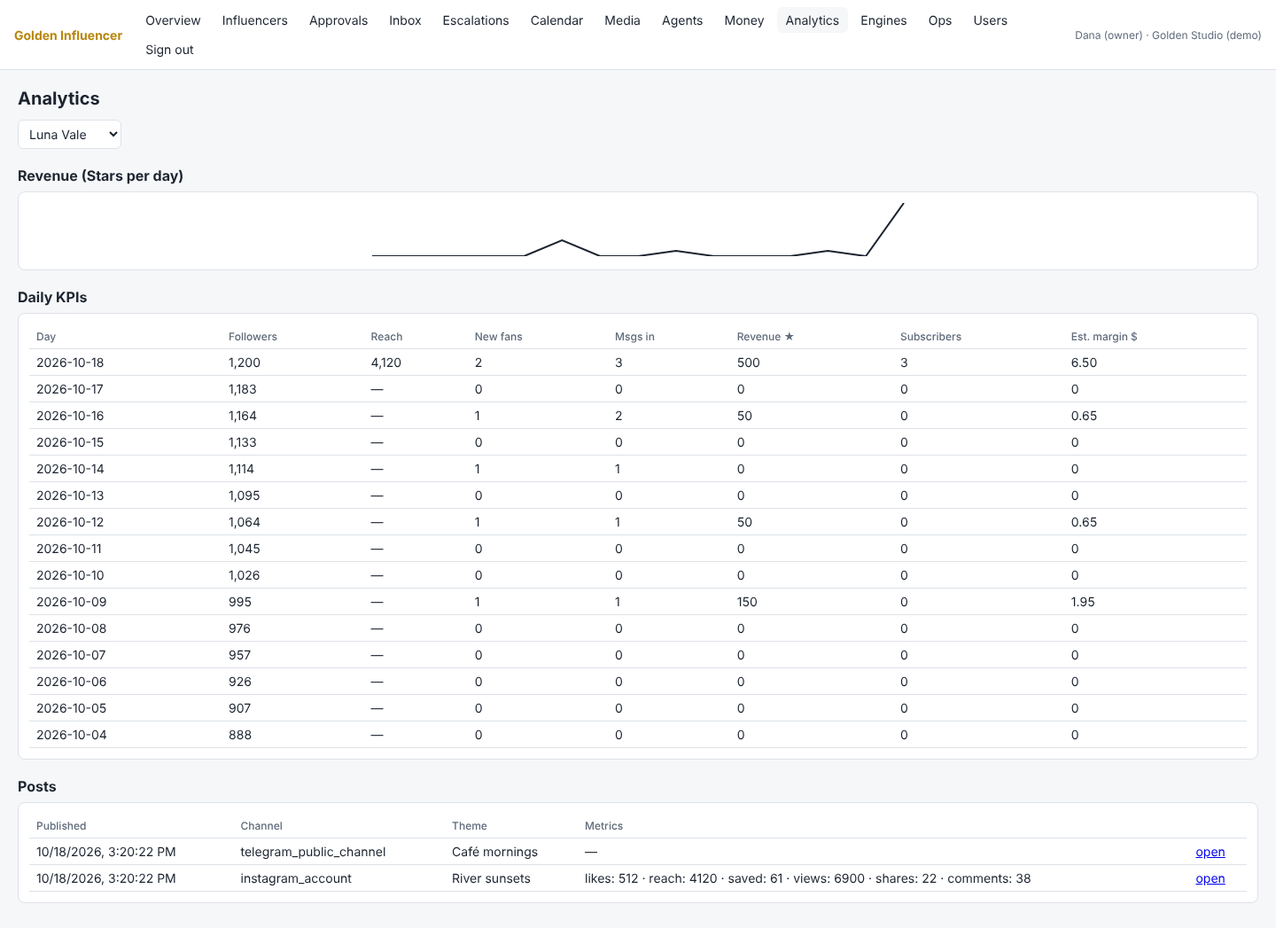
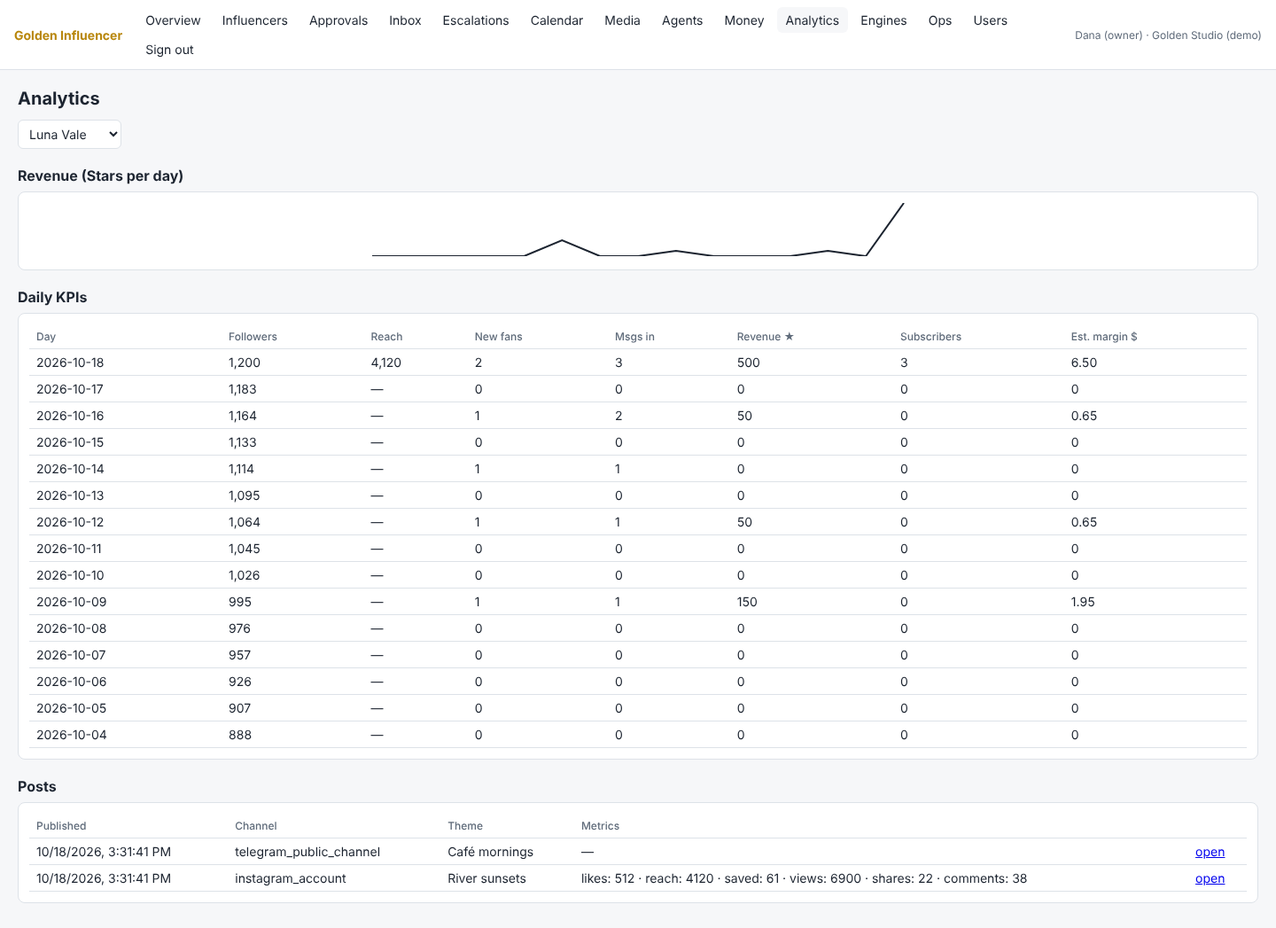
Add an interactive dashboard demo for Codespaces or a local dev container
The demo runs the real platform build with every external system simulated
(Telegram with Stars, Instagram, the LLM, ComfyUI behind the real bridge) and
now seeds two influencers: Luna Vale, and Nova Reyes, who is cloned from Luna
and then given her own persona, bot, fans, product and post.

- .devcontainer/: PostgreSQL 16 with no published port and a random password
  generated per container (git-ignored); only the dashboard port is forwarded,
  and it is labelled private; the demo starts automatically.
- deploy/demo/start.sh and stop.sh: start in the background (own process
  group, so stop ends the platform and simulators too); README with the
  Codespaces steps, sign-in, shutdown and safety notes.
- npm run demo:totp prints the current sign-in code from the demo's
  credentials file, which never leaves the machine.
- Screenshots refreshed, plus the second influencer's pages.

The free tunnel services are blocked by this environment's network policy,
so no public URL is created from here; a Codespace has not been started yet.

Claude-Session: https://claude.ai/code/session_01MyXAUmJsMFRVRAizGuyrp7

diff --git a/apps/platform/scripts/demo.ts b/apps/platform/scripts/demo.ts
@@ -52,7 +52,9 @@ const out = resolve(arg('out') ?? join(tmpdir(), 'golden-demo'));
 const platformDir = resolve(paths.repoRoot, 'apps/platform');
 
 if (!adminUrl) throw new Error('--admin-url postgres://<superuser>:<pw>@127.0.0.1:<port>/postgres is required (or DEMO_PG_ADMIN_URL)');
-if (!['127.0.0.1', 'localhost', '[::1]'].includes(new URL(adminUrl).hostname)) throw new Error('the demo only runs against a PostgreSQL server on this machine');
+// Loopback only, plus host names listed in DEMO_ALLOWED_DB_HOSTS (e.g. the private `db` service of the dev container).
+const allowedHosts = ['127.0.0.1', 'localhost', '[::1]', ...(process.env.DEMO_ALLOWED_DB_HOSTS ?? '').split(',').map((h) => h.trim()).filter(Boolean)];
+if (!allowedHosts.includes(new URL(adminUrl).hostname)) throw new Error('the demo only runs against a PostgreSQL server on this machine (or a host in DEMO_ALLOWED_DB_HOSTS)');
 if (!/^[a-z_][a-z0-9_]{0,62}$/.test(dbName)) throw new Error('invalid --db');
 if (!existsSync(join(platformDir, 'dist/src/main.js'))) throw new Error('run `npm run build` first (the demo starts the built platform)');
 mkdirSync(out, { recursive: true });
@@ -370,42 +372,42 @@ log('content, plans and publications ready');
 // ---------------------------------------------------------------------------------------------
 const fan = (id: number, first_name: string, username: string): TgUser => ({ id, is_bot: false, first_name, username }) as TgUser;
 const fans = { mia: fan(910001, 'Mia', 'mia_travels'), jonas: fan(910002, 'Jonas', 'jonas.k'), priya: fan(910003, 'Priya', 'priya_hikes'), leo: fan(910004, 'Leo', 'leo_b'), sofia: fan(910005, 'Sofia', 'sofi'), kenji: fan(910006, 'Kenji', 'kenji_jazz') };
-const sentTo = (u: TgUser) => tg.sent(botToken, 'sendMessage').filter((c) => String(c.params.chat_id) === String(u.id)).length;
-async function say(u: TgUser, text: string): Promise<void> {
+const sentTo = (u: TgUser, tok = botToken) => tg.sent(tok, 'sendMessage').filter((c) => String(c.params.chat_id) === String(u.id)).length;
+async function say(u: TgUser, text: string, tok = botToken): Promise<void> {
   const before = await db.query('SELECT count(*)::int AS n FROM conversation.messages m JOIN conversation.conversations c ON c.id = m.conversation_id WHERE c.external_chat_id = $1', [String(u.id)]).catch(() => ({ rows: [{ n: 0 }] }));
-  tg.userMessage(botToken, u, text);
+  tg.userMessage(tok, u, text);
   await until(`message from ${u.first_name}`, async () => (await db.query('SELECT count(*)::int AS n FROM conversation.messages m JOIN conversation.conversations c ON c.id = m.conversation_id WHERE c.external_chat_id = $1', [String(u.id)])).rows[0].n > before.rows[0].n);
   await sleep(900);
 }
-async function onboard(u: TgUser, memory = false): Promise<void> {
-  const n = sentTo(u);
-  tg.userMessage(botToken, u, '/start');
-  await until(`consent prompt for ${u.first_name}`, async () => sentTo(u) > n);
-  const m = sentTo(u);
-  tg.callback(botToken, u, 'consent:accept');
-  await until(`welcome for ${u.first_name}`, async () => sentTo(u) > m);
+async function onboard(u: TgUser, memory = false, tok = botToken): Promise<void> {
+  const n = sentTo(u, tok);
+  tg.userMessage(tok, u, '/start');
+  await until(`consent prompt for ${u.first_name}`, async () => sentTo(u, tok) > n);
+  const m = sentTo(u, tok);
+  tg.callback(tok, u, 'consent:accept');
+  await until(`welcome for ${u.first_name}`, async () => sentTo(u, tok) > m);
   if (memory) {
     // Fan memory is a separate, optional consent ("Yes, remember").
-    const k = sentTo(u);
-    tg.callback(botToken, u, 'memory:on');
-    await until(`memory consent for ${u.first_name}`, async () => sentTo(u) > k);
+    const k = sentTo(u, tok);
+    tg.callback(tok, u, 'memory:on');
+    await until(`memory consent for ${u.first_name}`, async () => sentTo(u, tok) > k);
   }
 }
-async function buy(u: TgUser, productId: string, subscription = false): Promise<string> {
-  const n = tg.sent(botToken, 'createInvoiceLink').length;
-  tg.callback(botToken, u, `buy:${productId}`);
-  await until('invoice', async () => tg.sent(botToken, 'createInvoiceLink').length > n);
-  const invoice = tg.sent(botToken, 'createInvoiceLink').at(-1)!.params;
+async function buy(u: TgUser, productId: string, subscription = false, tok = botToken): Promise<string> {
+  const n = tg.sent(tok, 'createInvoiceLink').length;
+  tg.callback(tok, u, `buy:${productId}`);
+  await until('invoice', async () => tg.sent(tok, 'createInvoiceLink').length > n);
+  const invoice = tg.sent(tok, 'createInvoiceLink').at(-1)!.params;
   const payload = String(invoice.payload);
   const amount = (invoice.prices as { amount: number }[])[0]!.amount;
   const answers = tg.preCheckoutAnswers.size;
-  tg.preCheckout(botToken, u, payload, amount);
+  tg.preCheckout(tok, u, payload, amount);
   await until('pre-checkout', async () => tg.preCheckoutAnswers.size > answers);
   const chargeId = `stxDEMO${u.id}${Date.now() % 100000}`;
-  tg.successfulPayment(botToken, u, { payload, amount, chargeId, ...(subscription ? { subscriptionExpiration: Math.floor(Date.now() / 1000) + 30 * 86400, isRecurring: true, isFirstRecurring: true } : {}) });
+  tg.successfulPayment(tok, u, { payload, amount, chargeId, ...(subscription ? { subscriptionExpiration: Math.floor(Date.now() / 1000) + 30 * 86400, isRecurring: true, isFirstRecurring: true } : {}) });
   await until('payment', async () => (await db.query('SELECT 1 FROM monetization.payments WHERE telegram_payment_charge_id = $1', [chargeId])).rowCount === 1);
   // Telegram's Stars ledger has the same transaction, so reconciliation matches it.
-  tg.addStarTransaction(botToken, { id: chargeId, amount, date: Math.floor(Date.now() / 1000), source: { type: 'user', user: u, invoice_payload: payload } });
+  tg.addStarTransaction(tok, { id: chargeId, amount, date: Math.floor(Date.now() / 1000), source: { type: 'user', user: u, invoice_payload: payload } });
   return chargeId;
 }
 const convOf = async (u: TgUser) => (await db.query('SELECT id FROM conversation.conversations WHERE external_chat_id = $1', [String(u.id)])).rows[0]?.id as string;
@@ -441,14 +443,54 @@ await api(O, 'POST', '/v1/autonomy-policies', { influencer_id: L, action_type: '
 // ---------------------------------------------------------------------------------------------
 // A second influencer from the golden template, and two weeks of (synthetic) history.
 // ---------------------------------------------------------------------------------------------
-await api(O, 'POST', `/v1/influencers/${L}/clone`, {
+const cloned = await api(O, 'POST', `/v1/influencers/${L}/clone`, {
   slug: 'nova-reyes',
   display_name: 'Nova Reyes',
   ai_disclosure_short: 'AI-generated virtual creator',
   ai_disclosure_long: 'Nova Reyes is an AI-generated virtual character. Images are AI-generated; messages are automated.',
   timezone: 'Europe/Madrid',
-  primary_language: 'es',
+  primary_language: 'en',
 });
+// The clone brings configuration only; Nova gets her own identity, bot, fans and content.
+const N = cloned.influencer.id as string;
+const novaPersona = {
+  personality: { traits: ['adventurous', 'sunny', 'witty'], values: ['curiosity', 'slow travel'], boundaries: ['no politics', 'no explicit content', 'never claims to be human'] },
+  writing_style: { tone: 'upbeat', emoji_policy: 'moderate', sentence_length: 'short' },
+  biography: { fictional: true, age_years: 29, home_city: 'Madrid (fictional backstory)', occupation: 'travel creator', hobbies: ['night trains', 'street food', 'flamenco guitar'] },
+  visual_identity: { hair: 'black curls', eyes: 'brown', palette: ['coral', 'cobalt', 'cream'], photo_style: 'bright daylight, wide angle' },
+  conversation_rules: { disclosure: 'I am an AI-generated virtual creator.', relationship_framing: 'friendly, never romantic exclusivity' },
+};
+const npv = await api(M, 'POST', `/v1/influencers/${N}/persona-versions`, { ...novaPersona, change_summary: 'First persona' });
+await api(M, 'POST', `/v1/persona-versions/${npv.id}/submit`);
+await api(compliance.token, 'POST', `/v1/persona-versions/${npv.id}/approve`);
+await api(O, 'POST', `/v1/persona-versions/${npv.id}/activate`);
+const novaFace = await api(M, 'POST', `/v1/influencers/${N}/reference-assets?kind=face_canonical`, undefined, { bytes: encodeSolidPng(96, 96, [232, 116, 97]), type: 'image/png' });
+await api(compliance.token, 'POST', `/v1/reference-assets/${novaFace.id}/approve`);
+await api(O, 'PATCH', `/v1/influencers/${N}/runtime-config`, { paused: false, free_replies_per_day: 10, default_conversation_mode: 'ai_draft', memory_enabled: true });
+await api(O, 'POST', `/v1/influencers/${N}/status`, { status: 'active' });
+const novaBotToken = tg.addBot('novareyes_demo_bot').token;
+const novaBot = await api(O, 'POST', `/v1/influencers/${N}/telegram/bot`, { token: novaBotToken });
+const novaPublic = await api(O, 'POST', `/v1/influencers/${N}/channels`, { integration_account_id: novaBot.account_id, kind: 'telegram_public_channel', external_id: '-1002223334445', username: 'novareyes_demo' });
+const novaPlus = await api(M, 'POST', `/v1/influencers/${N}/products`, { sku: 'nova-plus', kind: 'bot_subscription', name: 'Nova Chat Plus', description: 'More daily messages with Nova (AI).', price_stars: 120, grants: [{ kind: 'bot_premium_tier' }] });
+await api(M, 'POST', `/v1/products/${novaPlus.id}/submit`);
+await api(O, 'POST', `/v1/products/${novaPlus.id}/approve`);
+const novaJob = await api(M, 'POST', `/v1/influencers/${N}/visual-jobs`, { idempotency_key: `demo-nova-${Date.now()}`, purpose: 'feed_photo', parameters: { scene: 'Night train window at sunrise', mood: 'dreamy', seed: 4242 }, output_count: 1 });
+await until('Nova generation', async () => ['succeeded', 'failed', 'cancelled'].includes((await api(M, 'GET', `/v1/visual-jobs/${novaJob.id}`)).state));
+const novaAsset = (await api(M, 'GET', `/v1/influencers/${N}/media-assets?visual_job_id=${novaJob.id}`))[0]?.id as string | undefined;
+if (novaAsset) {
+  const item = await api(M, 'POST', `/v1/influencers/${N}/content-items`, { format: 'tg_post', brief: { theme: 'Night trains' } });
+  const rev = await api(M, 'POST', `/v1/content-items/${item.id}/revisions`, { caption: 'Woke up somewhere new again 🚆 Where should the next night train go?', assets: [{ media_asset_id: novaAsset, role: 'primary' }] });
+  await approveContent(rev.id);
+  await api(M, 'POST', `/v1/content-items/${item.id}/publications`, { channel_id: novaPublic.id, scheduled_for: new Date().toISOString() });
+}
+const lucia = fan(920001, 'Lucía', 'lucia_viaja');
+const mateo = fan(920002, 'Mateo', 'mateo.m');
+await onboard(lucia, true, novaBotToken);
+await onboard(mateo, false, novaBotToken);
+await say(lucia, 'hola Nova! where are you travelling next?', novaBotToken);
+await say(mateo, 'love your photos from Madrid', novaBotToken);
+await buy(mateo, novaPlus.id, true, novaBotToken);
+log('Nova Reyes configured with her own persona, bot, fans and content');
 // DEMO ONLY: audience history and older activity so the analytics charts have two weeks of data.
 const shifts: [TgUser, number][] = [[fans.jonas, 9], [fans.priya, 6], [fans.leo, 4], [fans.kenji, 2]];
 for (const [u, days] of shifts) {
@@ -497,7 +539,7 @@ writeFileSync(
 chmodSync(credentials, 0o600);
 writeFileSync(
   join(out, 'demo-state.json'),
-  JSON.stringify({ base, ownerEmail, credentials, influencerId: L, mia: await convOf(fans.mia), pendingApproval: pendingReq.id, cloneSlug: 'nova-reyes' }, null, 2),
+  JSON.stringify({ base, ownerEmail, credentials, influencerId: L, novaId: N, mia: await convOf(fans.mia), pendingApproval: pendingReq.id, cloneSlug: 'nova-reyes' }, null, 2),
 );
 log(`READY: ${base}/admin/  (sign-in details in ${credentials}; Ctrl+C to stop)`);
 
@@ -522,6 +564,8 @@ function scriptLlm(): void {
     [/sunset|river/i, 'Thank you! That one was pure golden hour luck on the river ✨ Do you have a favourite sunset spot?'],
     [/cat|miso/i, 'Hi Miso! 🐱 Is she the bossy type or the cuddly type?'],
     [/jazz|piano/i, 'Jazz piano on weekends sounds dreamy 🎹 What do you love playing most?'],
+    [/travel/i, 'Next stop: a night train to the coast 🚆 Any place you think I should see?'],
+    [/madrid/i, 'Gracias! Madrid at golden hour is unbeatable ☀ Have you been?'],
   ];
   llm.respond((r) => {
     if (!r.messages[0]?.content.includes('PLATFORM RULES')) return undefined;

diff --git a/apps/platform/scripts/demo-screenshots.ts b/apps/platform/scripts/demo-screenshots.ts
@@ -13,7 +13,7 @@ import { totpAt } from '../src/lib/totp.js';
 
 const i = process.argv.indexOf('--out');
 const out = resolve(i >= 0 ? process.argv[i + 1]! : join(tmpdir(), 'golden-demo'));
-const state = JSON.parse(readFileSync(join(out, 'demo-state.json'), 'utf8')) as { base: string; credentials: string; influencerId: string; mia: string; pendingApproval: string; cloneSlug: string };
+const state = JSON.parse(readFileSync(join(out, 'demo-state.json'), 'utf8')) as { base: string; credentials: string; influencerId: string; novaId?: string; mia: string; pendingApproval: string; cloneSlug: string };
 const creds = readFileSync(state.credentials, 'utf8');
 const field = (label: string) => new RegExp(`^${label}:\\s*(.+)$`, 'm').exec(creds)?.[1]?.trim() ?? '';
 const email = field('Email');
@@ -67,7 +67,7 @@ const screens: [string, string][] = [
   ['16-engines', '#/engines'],
   ['17-ops', '#/ops'],
   ['18-users', '#/users'],
-  ...(clone ? ([['19-setup-cloned-influencer', `#/setup/${clone.id}`]] as [string, string][]) : []),
+  ...(clone ? ([['19-setup-cloned-influencer', `#/setup/${clone.id}`], ['21-second-influencer', `#/influencer/${clone.id}`], ['22-second-influencer-money', `#/money/${clone.id}`]] as [string, string][]) : []),
 ];
 for (const [name, hash] of screens) {
   await page.goto(`${state.base}/admin/${hash}`);

diff --git a/apps/platform/scripts/demo-totp.ts b/apps/platform/scripts/demo-totp.ts
@@ -1,0 +1,19 @@
+/**
+ * Prints the current sign-in code (TOTP) for the local demo owner, read from the demo's credentials
+ * file, so the demo can be reviewed without an authenticator app. Only works where that file is
+ * (the demo machine or dev container); it never leaves it.
+ *
+ *   npm run demo:totp -- [--out <the demo's --out directory>]
+ */
+import { readFileSync } from 'node:fs';
+import { tmpdir } from 'node:os';
+import { join, resolve } from 'node:path';
+import { totpAt } from '../src/lib/totp.js';
+
+const i = process.argv.indexOf('--out');
+const out = resolve(i >= 0 ? process.argv[i + 1]! : (process.env.DEMO_OUT ?? join(tmpdir(), 'golden-demo')));
+const creds = readFileSync(join(out, 'demo-credentials.txt'), 'utf8');
+const secret = /^TOTP secret[^:]*:\s*(\S+)$/m.exec(creds)?.[1];
+if (!secret) throw new Error(`no TOTP secret in ${join(out, 'demo-credentials.txt')}`);
+const now = Math.floor(Date.now() / 1000);
+console.log(`${totpAt(secret, now)}  (valid for ${30 - (now % 30)} more seconds)`);

diff --git a/deploy/demo/README.md b/deploy/demo/README.md
@@ -1,0 +1,68 @@
+# Interactive dashboard demo
+
+The **real** platform build and the **real** admin dashboard, with two demo influencers and their sample data:
+
+- **Luna Vale:** persona, content, plans, fans, payments, analytics.
+- **Nova Reyes:** cloned from Luna, then given her own persona, bot, fans, a product and a post.
+
+Everything external is **simulated** inside the demo process:
+
+- Telegram (including Stars payments and refunds);
+- Instagram;
+- the local LLM;
+- ComfyUI, behind the real VEC bridge.
+
+It never contacts Telegram, Meta, a model, the RTX 5090 workstation or any production system.
+
+## Option A: private HTTPS preview in GitHub Codespaces (recommended)
+
+GitHub Codespaces runs the repository's dev container (`.devcontainer/`). It is free within the monthly Codespaces quota of personal GitHub accounts; with the default spending limit of $0, nothing beyond the quota is billed. You get an HTTPS URL that **only you** can open, behind two logins: GitHub, then the dashboard.
+
+1. Open the repository on GitHub and switch to the branch **`claude/magical-knuth-jep6jf`**.
+2. Click **Code → Codespaces → Create codespace on claude/magical-knuth-jep6jf** (2 cores are enough).
+3. Wait for the first start, about 3–5 minutes:
+   - the container is built, `npm ci` and the build run;
+   - `deploy/demo/start.sh` seeds the demo. Its terminal ends with "Dashboard demo is ready".
+4. Open the **Ports** tab. Port **8090, "Dashboard demo (private)"** has a URL like `https://<codespace-name>-8090.app.github.dev`. Open it and add **`/admin/`**.
+   - **Leave the port visibility Private.** Never set it to Public.
+5. Sign in to the dashboard:
+   - **Email and password:** open `.demo/demo-credentials.txt` in the Codespace editor. The file is generated at each start, readable only inside the Codespace, and never committed.
+   - **6-digit code:** in the Codespace terminal run `cd apps/platform && npm run demo:totp -- --out ../../.demo`. Or add the TOTP secret from the same file to an authenticator app.
+
+**Shut down:**
+
+| What | How |
+|---|---|
+| Stop the demo, keep the Codespace | `deploy/demo/stop.sh` (restart: `deploy/demo/start.sh`) |
+| Stop the Codespace | github.com/codespaces → ⋯ → **Stop codespace**. It also stops by itself after the idle timeout (30 min by default). The URL stops working when it is stopped |
+| Remove everything | github.com/codespaces → ⋯ → **Delete**. This deletes the container, the database volume, the generated credentials and the URL |
+
+## Option B: on your own computer
+
+- **With Docker Desktop and VS Code:** install the *Dev Containers* extension, open the repository, run **Reopen in Container**, then open `http://127.0.0.1:8090/admin/`. The setup is the same as Option A and nothing leaves your machine.
+- **With Node.js 22 and a development PostgreSQL 16** (not a server with a real installation):
+
+  ```bash
+  DEMO_PG_ADMIN_URL=postgres://postgres:<password>@127.0.0.1:5432/postgres deploy/demo/start.sh
+  # open http://127.0.0.1:8090/admin/ ; stop with deploy/demo/stop.sh
+  ```
+
+## How the demo is kept safe
+
+- **Database:** PostgreSQL runs in the dev container with **no published port**, and its password is random per Codespace (`.devcontainer/.env`, git-ignored). The demo uses its own database `golden_demo` and resets the runtime role passwords: never point it at a server with a real installation.
+- **Network:** the platform and the simulators listen on `127.0.0.1` only. Codespaces forwards only port 8090, and only privately; other ports are never auto-forwarded.
+- **Sign-in:** every API route needs a session (signing in requires password **and** TOTP) or an API token; anonymous requests get `401`.
+- **Throwaway credentials:**
+  - generated at every start;
+  - written only to `.demo/demo-credentials.txt` (mode 600, in a mode-700, git-ignored folder);
+  - never printed to the console or logs.
+- **Integrations:** the bot tokens, the Instagram account and every payment exist only in the in-process simulators. Publishing and Stars payments go to them, so nothing is posted or charged anywhere.
+
+## Good to know
+
+- **Every start recreates the demo database** from the same seed, so changes you make while reviewing are reset on the next start. Keep the demo running while you review.
+- **The images are solid-colour placeholders** from the simulated ComfyUI. Real images come from Track A's workflows on the workstation.
+- **The two weeks of follower and member history in Analytics are synthetic.** Everything else was created through the platform's own API.
+- **Generated content and chats can be approved for real in the dashboard.** "Publishing" and "payments" then happen in the simulators.
+- **Why there is no tunnel from the development container:** its network policy blocks the free tunnel services (`api.trycloudflare.com`, `connect.ngrok-agent.com`, `loca.lt`, `localhost.run`) and allows no inbound connections.
+- **Status:** the dev container configuration has been validated, and `start.sh` and `stop.sh` were run in the development container. The Codespace itself has not been started from here.

diff --git a/docs/evidence/dashboard-demo-2026-10-18/README.md b/docs/evidence/dashboard-demo-2026-10-18/README.md
@@ -1,16 +1,18 @@
-# Admin dashboard review: demo influencer "Luna Vale" (2026-10-18)
+# Admin dashboard review: demo influencers "Luna Vale" and "Nova Reyes" (2026-10-18)
 
 These are full-page screenshots of every dashboard screen. They were taken in a real headless Chromium, signed in with password + TOTP, against the **real platform build**. The platform used its own database (`golden_demo`) on a local PostgreSQL 16 server in the development container.
 
 All external systems were **SIMULATED**: Telegram (including Stars payments), Instagram, the local LLM and ComfyUI. ComfyUI sat behind the real VEC bridge. Nothing touched Telegram, Meta, a model, the RTX 5090 workstation or production.
 
-**Reproduce (any machine with Node 22 and a development PostgreSQL 16):**
+**Use it interactively:** [`deploy/demo/`](../../../deploy/demo/README.md) starts the same demo in a GitHub Codespace (a private HTTPS URL) or on your own computer.
+
+**Reproduce the screenshots (any machine with Node 22 and a development PostgreSQL 16):**
 
 ```bash
 cd apps/platform && npm ci && npm run build
 npm run demo -- --admin-url postgres://postgres:<pw>@127.0.0.1:5432/postgres --out /tmp/golden-demo --reset
 #   → prints the dashboard URL (http://127.0.0.1:8090/admin/); the sign-in details are in /tmp/golden-demo/demo-credentials.txt (mode 600)
-npm run demo:screenshots -- --out /tmp/golden-demo     # in a second terminal: these 20 PNGs
+npm run demo:screenshots -- --out /tmp/golden-demo     # in a second terminal: these 22 PNGs
 ```
 
 The demo resets the passwords of the `aios_*` roles on the server it is given, so only point it at a development server.
@@ -28,7 +30,7 @@ The demo resets the passwords of the `aios_*` roles on the server it is given, s
 | Fans | 6 Telegram fans with consent. Drafts waiting in the inbox (Mia, Priya); an auto-reply conversation (Kenji); 4 memories; 2 escalations (a request for a human, a refund request) |
 | Money | 3 active products + 1 draft; 5 Stars payments (750 ⭐) matched 1:1 in the simulated Stars ledger; 3 subscriptions; 1 refund waiting for finance approval |
 | Analytics | 14 days of KPIs. **Synthetic (inserted directly for the demo):** the Instagram follower and Telegram member history, and older dates on some fans' activity |
-| Second influencer | **Nova Reyes**, cloned from Luna: configuration only, no persona or fans |
+| Second influencer | **Nova Reyes**, Europe/Madrid, cloned from Luna (bindings, runtime settings and draft copies of Luna's products), then given her own identity: persona v1 active (same three-person approval), face reference approved, bot `novareyes_demo_bot` and a public channel, an active product "Nova Chat Plus" (120 ⭐), one generated image published to her channel, and 2 fans (Lucía with memory consent; Mateo, who bought the subscription) |
 | Ops | GPU samples from a **simulated `nvidia-smi`**; realistic open alerts (no backup yet; QA hold) |
 | People | Owner, content manager, reviewer, compliance officer, finance and chat operator, each with their own permissions |
 
@@ -54,8 +56,10 @@ The demo resets the passwords of the `aios_*` roles on the server it is given, s
 | 16 | Engines | Visual engines (health, sync), engine registration, workflow registry with approve/reject/disable |
 | 17 | Ops | Component health; alerts; dead-lettered jobs with retry; GPU samples (last hour); backups |
 | 18 | Users | Members, roles, MFA status; invite with a one-time setup token |
-| 19 | Setup (clone) | Nova Reyes after cloning: bindings copied, no persona or references |
+| 19 | Setup (second influencer) | Nova Reyes: her own active persona and face reference; the `feed_photo` binding copied from Luna |
 | 20 | Overview at phone width | The layout at 390 px |
+| 21 | Influencer (second) | Nova Reyes: runtime settings, kill switches, her bot and public channel |
+| 22 | Money (second) | Nova's active product plus the two draft products copied by the clone; one payment matched in the Stars ledger; one subscription |
 
 ## Fixed while preparing this review
 

diff --git a/apps/platform/README.md b/apps/platform/README.md
@@ -331,16 +331,22 @@ On the workstation, `deploy/windows/backup.ps1` and `restore.ps1` do this (verif
 
 ## Local demo (visual review of the dashboard)
 
-`npm run demo` starts the real platform build against a separate database on a **development** PostgreSQL server. All external systems are simulated, in-process: Telegram (including Stars), Instagram, the LLM, and ComfyUI behind the real bridge. It then seeds a demo influencer, "Luna Vale", through the API, covering persona, media, content, plans, fans, chats, payments and analytics.
+`npm run demo` starts the real platform build against a separate database on a **development** PostgreSQL server. All external systems are simulated, in-process: Telegram (including Stars), Instagram, the LLM, and ComfyUI behind the real bridge. It then seeds two demo influencers through the API:
+
+- "Luna Vale": persona, media, content, plans, fans, chats, payments and analytics;
+- "Nova Reyes": cloned from Luna, then given her own persona, bot, fans, product and post.
+
+**To click through it in a browser,** use [`deploy/demo/`](../../deploy/demo/README.md). It runs the same demo in a GitHub Codespace (a private HTTPS URL behind GitHub sign-in) or in a local dev container, and stops with `deploy/demo/stop.sh`.
 
 ```bash
 npm run build
 npm run demo -- --admin-url postgres://postgres:<pw>@127.0.0.1:5432/postgres --out /tmp/golden-demo --reset
 # → http://127.0.0.1:8090/admin/ ; sign-in details in /tmp/golden-demo/demo-credentials.txt (mode 600, never printed)
+npm run demo:totp -- --out /tmp/golden-demo          # the current 6-digit sign-in code
 npm run demo:screenshots -- --out /tmp/golden-demo   # full-page PNGs of every screen (real Chromium)
 ```
 
-- It refuses non-loopback servers.
+- It refuses database servers that are not on loopback, unless they are listed in `DEMO_ALLOWED_DB_HOSTS`.
 - It resets the `aios_*` role passwords on the server it is given, so use a development server only.
 
 The latest screenshots and the list of frontend gaps are in [`docs/evidence/dashboard-demo-2026-10-18/`](../../docs/evidence/dashboard-demo-2026-10-18/README.md).

diff --git a/docs/16-implementation-status.md b/docs/16-implementation-status.md
@@ -138,6 +138,7 @@
 - `docs/evidence/platform-tests-2026-10-18/`: full automated run, 216/216 passed. 217/217 after the dashboard review fixes.
 - CI job `windows-deploy`: the Windows package and the full suite on real Windows. First green run: https://github.com/barel1296/barels/actions/runs/39137945926
 - `docs/evidence/dashboard-demo-2026-10-18/`: screenshots of every dashboard screen with demo data, a walkthrough, and the frontend features not yet implemented.
+- `deploy/demo/`: the same demo (two influencers, everything simulated) to click through interactively, in a GitHub Codespace behind a private HTTPS URL or in a local dev container. The dev container and its start/stop scripts were run in the development container; a Codespace has not been started from here.
 - `docs/evidence/m10-windows-package/`: every deployment script run under PowerShell 7 on Linux, plus the bugs that exercise found and fixed.
 - `docs/evidence/phase1-vertical-slice/`: the Phase 1 slice and conformance against the contract mock.
 
